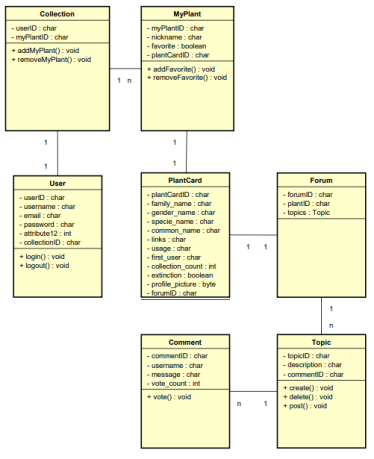
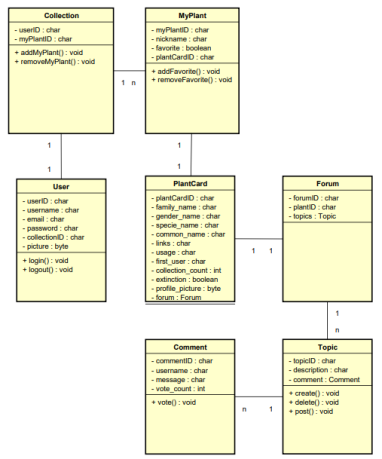
Update Class Diagram on architecture document

Changed region(s): [[0.0, 0.0, 1.0, 1.0]]

diff --git a/docs/architecture_document/architecture_document.md b/docs/architecture_document/architecture_document.md
@@ -6,7 +6,9 @@
 | :-:   |  :-:   |    :-:    |    :-:                              |
 | 12/09 |  0.1   |  Criação da estrutura do documento | [João Vítor](http://github.com/joaovitorml) |
 | 13/09 |  0.2   | Atualização do sumário |  [João Vítor](http://github.com/joaovitorml)           |
-| 13/09 |  1.0   |  | [Victor Hugo](http://github.com/V100K) e [Rafael Makaha](http://github.com/rafaelmakaha)
+| 13/09 |  1.0   | Criação do Documento | [Victor Hugo](http://github.com/V100K) e [Rafael Makaha](http://github.com/rafaelmakaha)
+| 13/09 |  1.1   | Atualização de diagrama de classes e backend pkg | [Victor Hugo](http://github.com/V100K), [Rafael Makaha](http://github.com/rafaelmakaha) e [Ruan Moura](http://github.com/ruanmoura)
+
 
 ## Sumário
 
